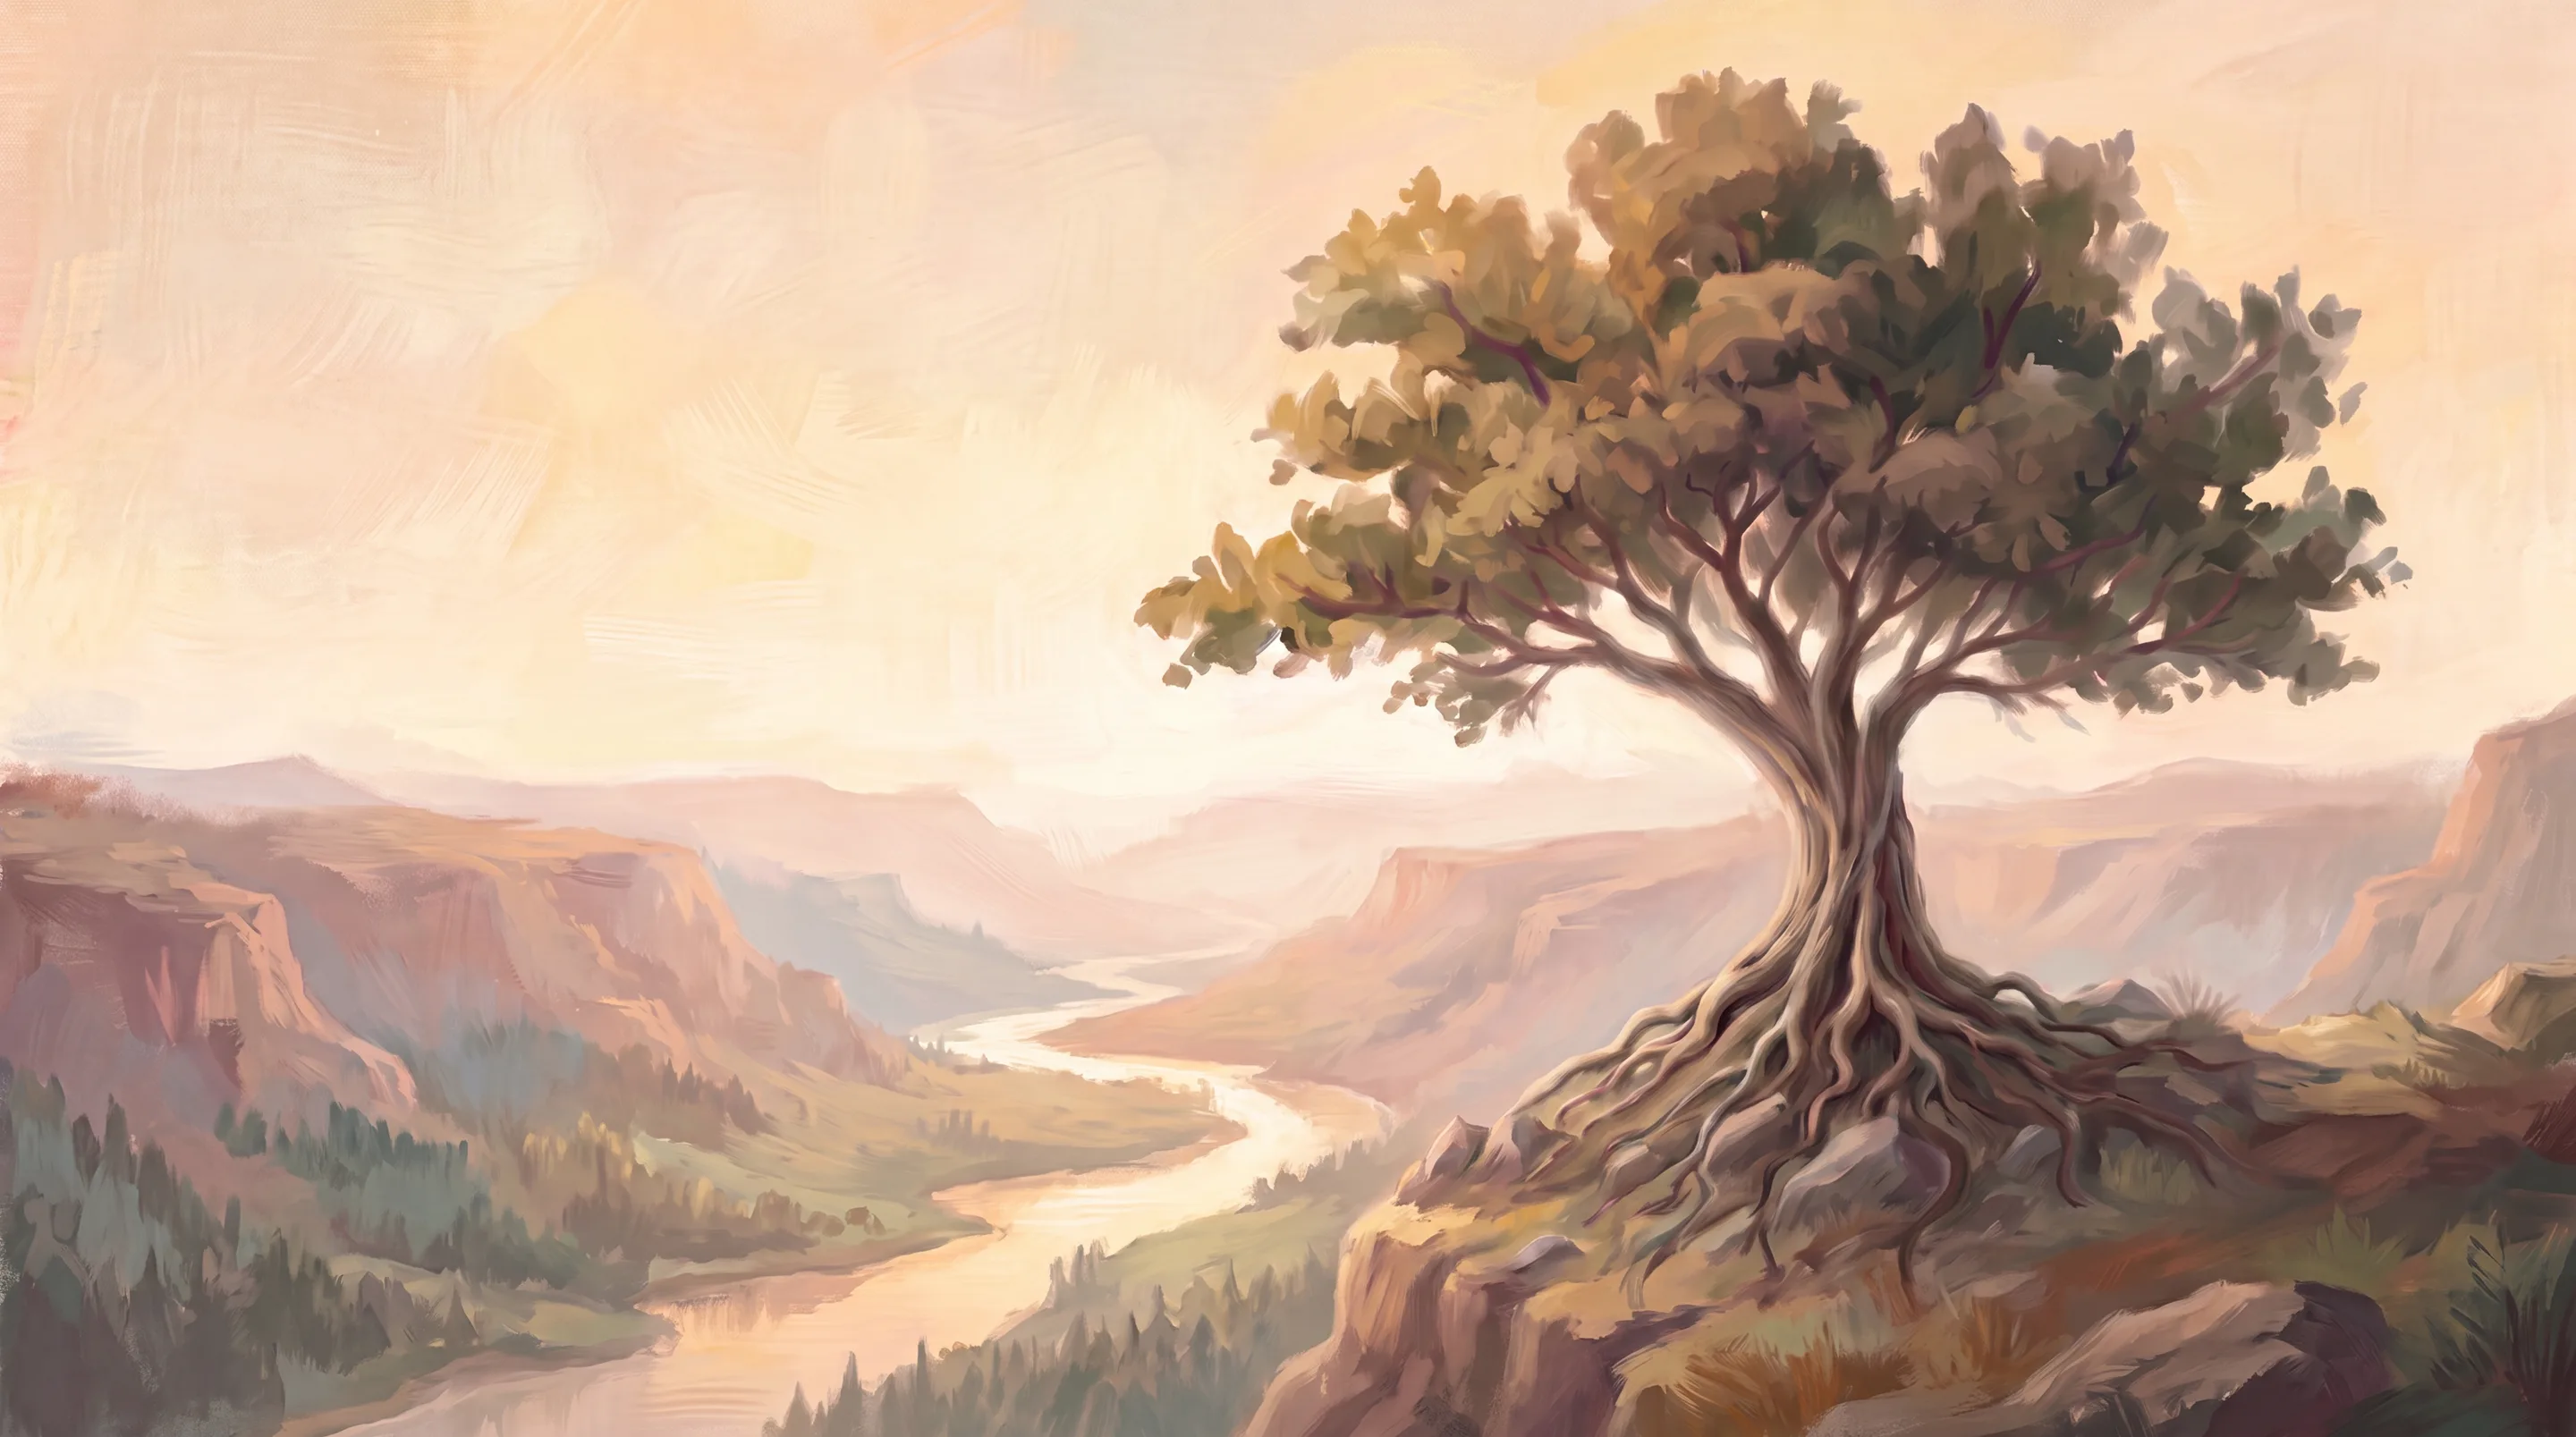
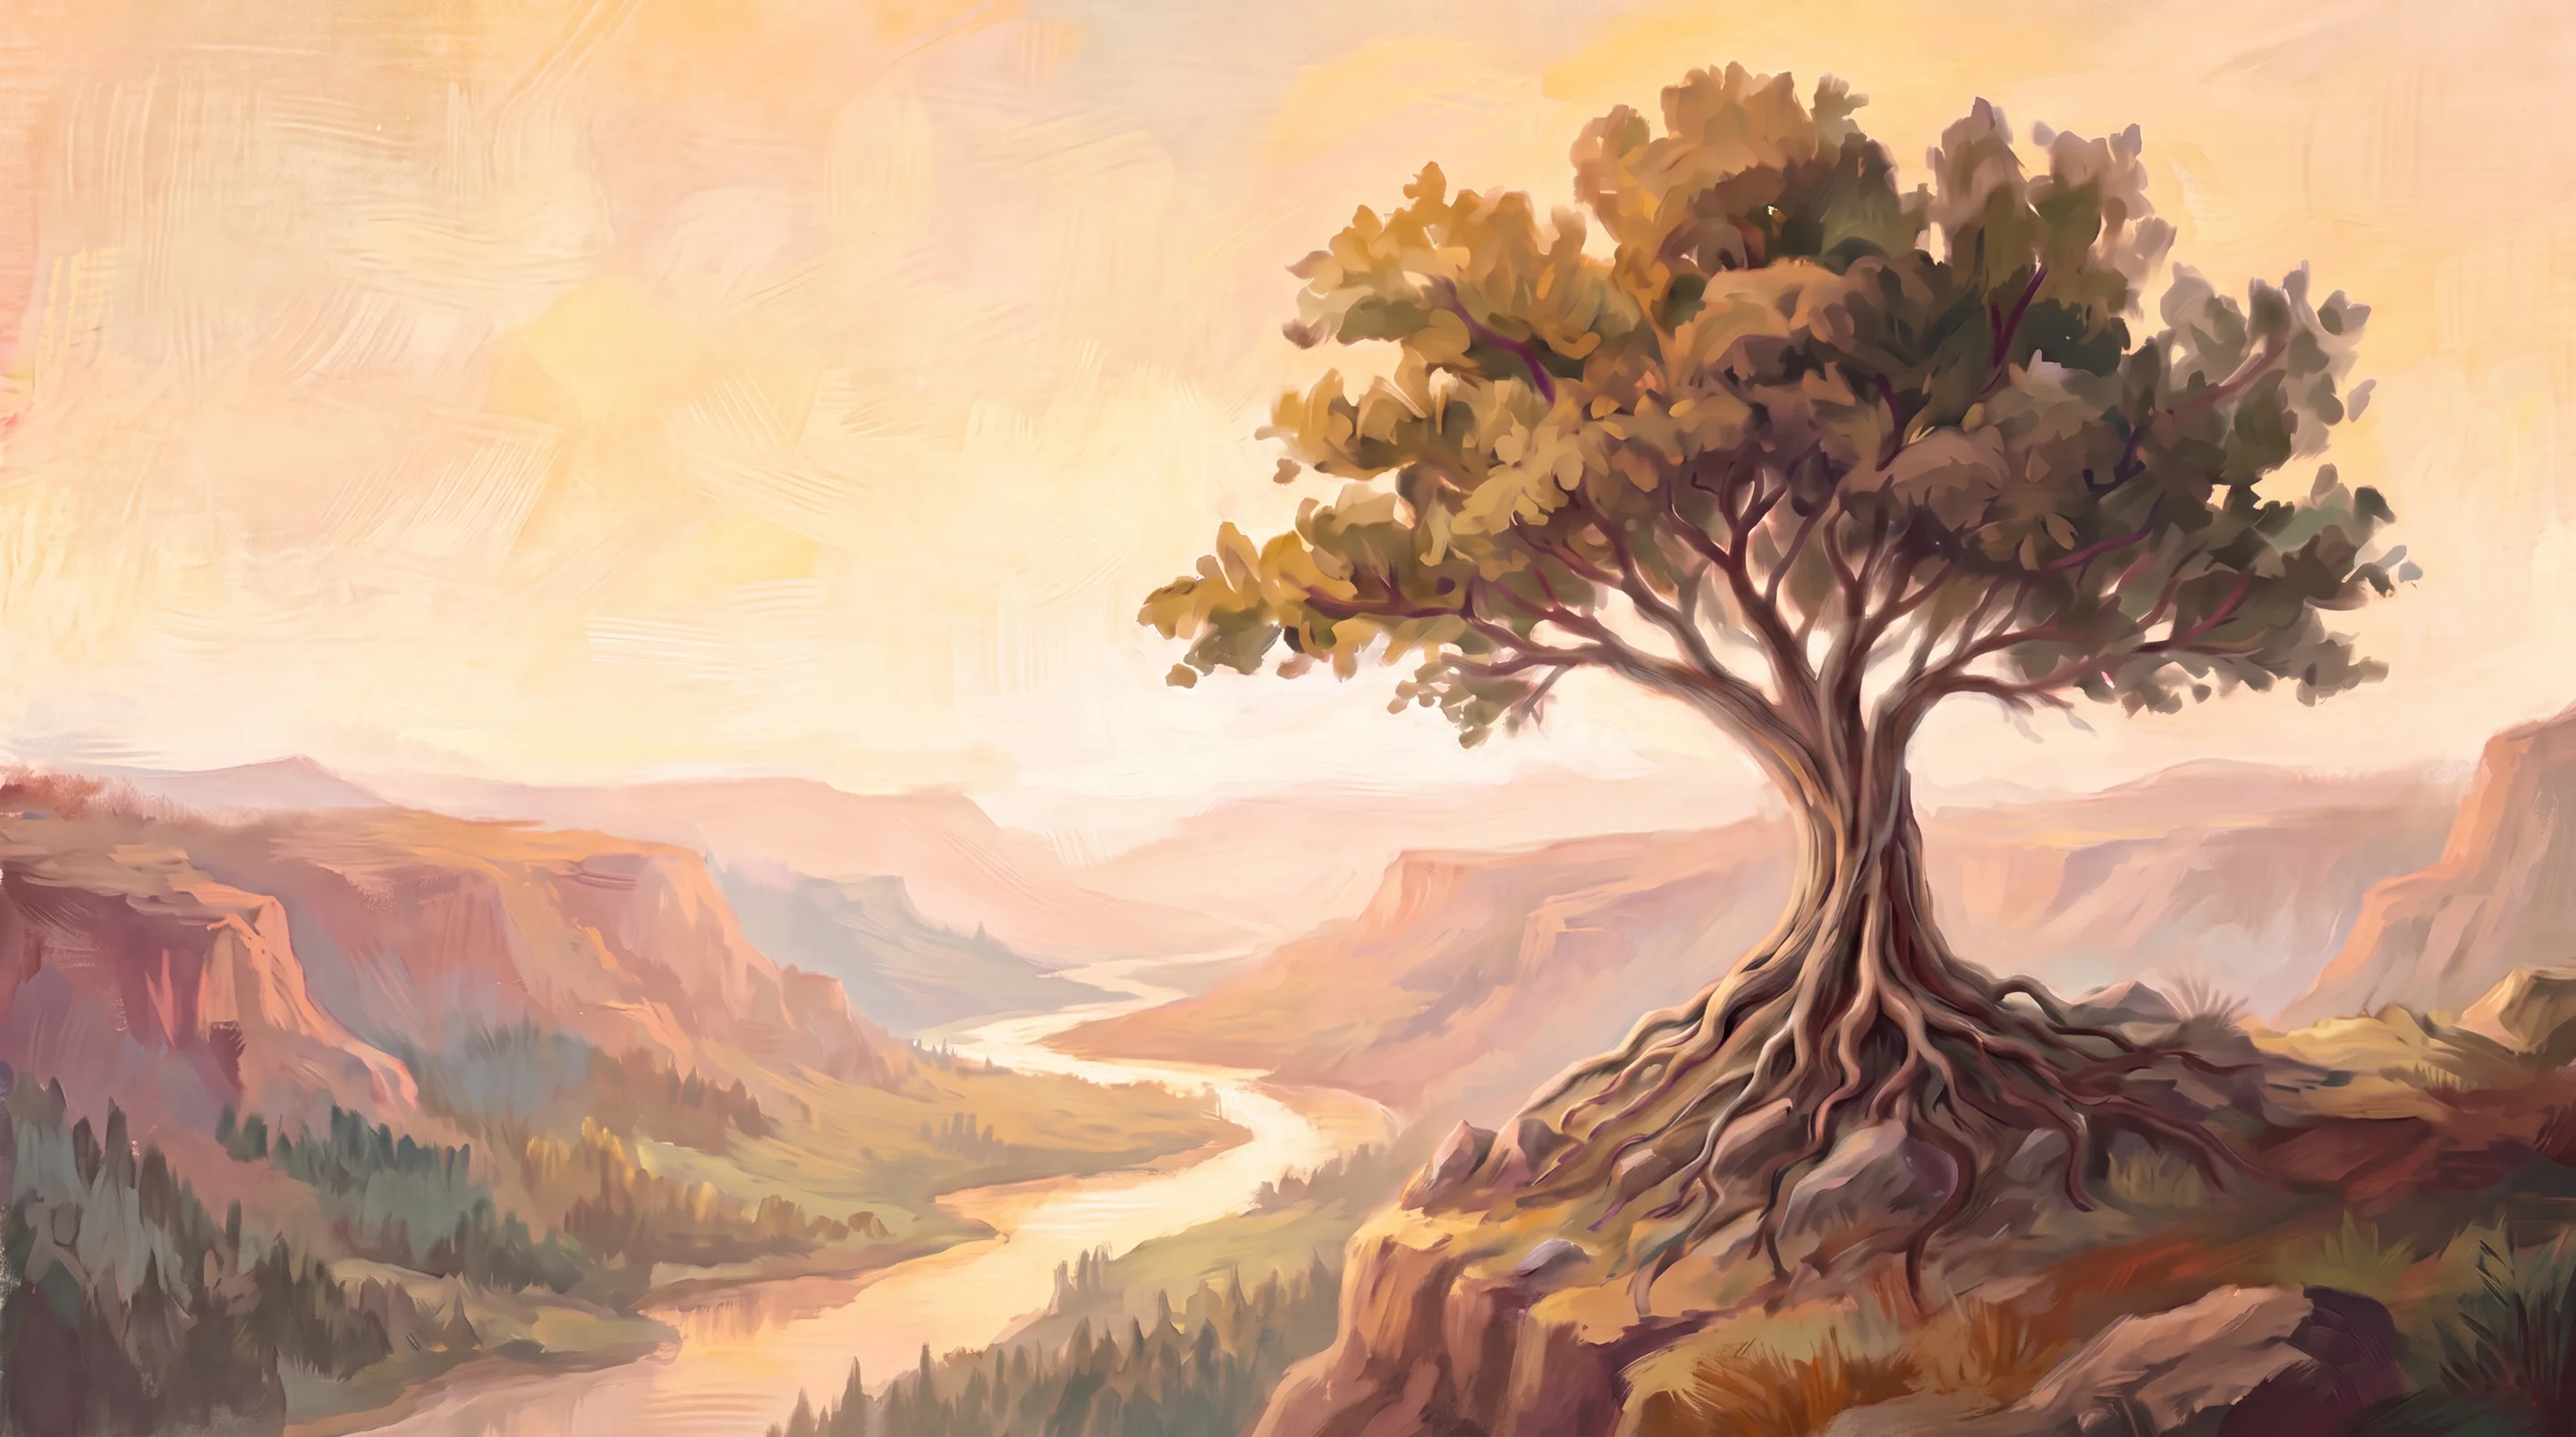
Hero: cleaner CTA buttons + a touch more zoom-out
Buttons (after reviewing all page content + 3 IA proposals): replace the
vague 'Choose your path' primary and the Use/Developers/Verify card row with
three clear, ranked buttons — See how it works (/how-it-works, primary) ·
Learn the basics (/learn, secondary) · Choose your path (#paths, quiet
tertiary). Lead with the comprehension page (the interactive how-it-works),
drop the niche Participate card from the hero; the persona chooser still lives
in the paths section below. Add a --quiet tertiary button style; full-width
buttons on mobile.

Desktop vista: swap to a slightly more pulled-back companion render (tree a
touch smaller, more sky + valley) per feedback.

diff --git a/src/app/v2.css b/src/app/v2.css
@@ -2895,6 +2895,23 @@ h2 em,
     inset 0 1px 0 rgba(255, 255, 255, 0.22);
 }
 
+.minimal-btn--quiet {
+  border-color: transparent;
+  background: transparent;
+  box-shadow: none;
+  color: var(--text-hi);
+}
+.minimal-btn--quiet::before {
+  opacity: 0;
+}
+.minimal-btn--quiet:hover {
+  transform: translateY(-3px);
+  color: var(--bone);
+  background: rgba(255, 255, 255, 0.06);
+  border-color: rgba(244, 241, 230, 0.28);
+  box-shadow: none;
+}
+
 .minimal-btn:active {
   transform: translateY(0);
   box-shadow:
@@ -4193,6 +4210,8 @@ h2 em,
 
   .minimal-hero__dock .minimal-actions {
     margin-top: 0;
+    flex-direction: column;
+    align-items: stretch;
   }
 
   .minimal-hero-routes {
@@ -4651,6 +4670,18 @@ h2 em,
     linear-gradient(180deg, rgba(255, 255, 255, 0.76), rgba(20, 60, 36, 0.1)),
     rgba(255, 250, 240, 0.5);
   border-color: rgba(12, 125, 54, 0.45);
+}
+[data-theme="light"] .minimal-btn--quiet {
+  color: var(--text-hi);
+  background: transparent;
+  border-color: transparent;
+  box-shadow: none;
+}
+[data-theme="light"] .minimal-btn--quiet:hover {
+  color: var(--text-hi);
+  background:
+    linear-gradient(180deg, rgba(255, 255, 255, 0.6), rgba(255, 250, 240, 0.28));
+  border-color: rgba(12, 125, 54, 0.32);
 }
 
 /* ============================================================

diff --git a/src/components/minimal/MinimalHome.tsx b/src/components/minimal/MinimalHome.tsx
@@ -72,24 +72,6 @@ const VALUE_STEPS = [
   },
 ] as const;
 
-const HERO_ROUTES = [
-  {
-    label: "Use",
-    detail: "User path",
-    href: "/learn",
-  },
-  {
-    label: "Developers",
-    detail: "Developer path",
-    href: "/developers",
-  },
-  {
-    label: "Verify",
-    detail: "Independent verification",
-    href: "/participate",
-  },
-] as const;
-
 function EcosystemPartners() {
   return (
     <section className="minimal-partners" aria-labelledby="minimal-partners-title">
@@ -115,15 +97,10 @@ export default function MinimalHome() {
               <SmartLink className="minimal-btn minimal-btn--ghost" href={SITE_COPY.hero.secondaryCta.href}>
                 {SITE_COPY.hero.secondaryCta.label}
               </SmartLink>
+              <SmartLink className="minimal-btn minimal-btn--quiet" href={SITE_COPY.hero.tertiaryCta.href}>
+                {SITE_COPY.hero.tertiaryCta.label}
+              </SmartLink>
             </div>
-            <nav className="minimal-hero-routes" aria-label="Fast Midgard routes">
-              {HERO_ROUTES.map((route) => (
-                <SmartLink className="minimal-hero-route" href={route.href} key={route.label}>
-                  <strong>{route.label}</strong>
-                  <span>{route.detail}</span>
-                </SmartLink>
-              ))}
-            </nav>
           </div>
         </div>
         <div className="minimal-hero__visual-space" aria-hidden />

diff --git a/src/lib/siteCopy.ts b/src/lib/siteCopy.ts
@@ -5,8 +5,9 @@ export const SITE_COPY = {
     title: "The execution layer for UTXO finance",
     lead:
       "Midgard is an optimistic rollup that makes applications faster with verified smart contracts and Cardano settlement.",
-    primaryCta: { label: "Choose your path", href: "#paths" },
-    secondaryCta: { label: "See how it works", href: "/how-it-works" },
+    primaryCta: { label: "See how it works", href: "/how-it-works" },
+    secondaryCta: { label: "Learn the basics", href: "/learn" },
+    tertiaryCta: { label: "Choose your path", href: "#paths" },
   },
   paths: [
     {